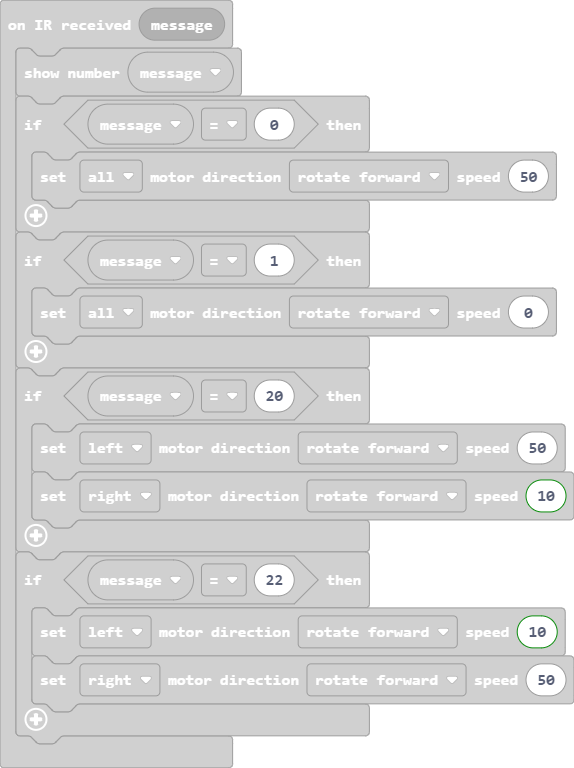
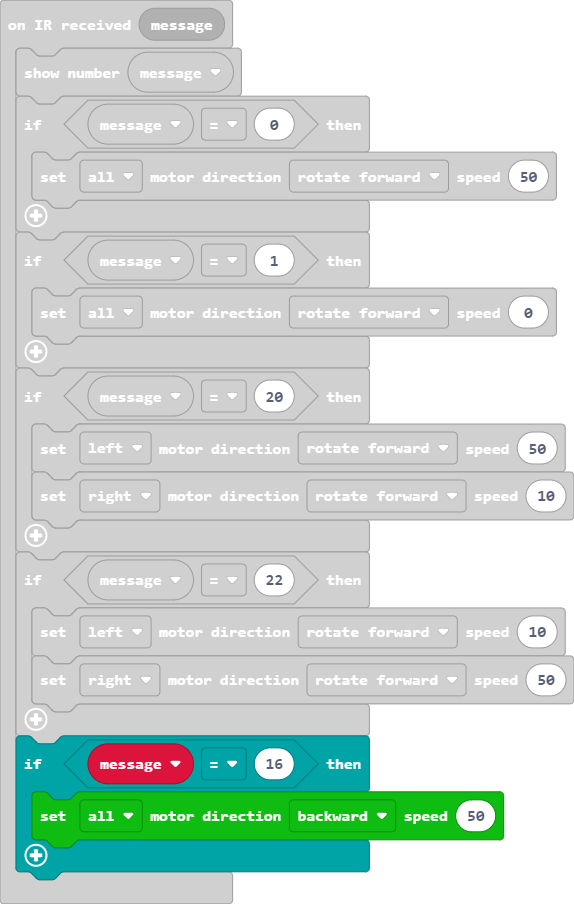
Update main.blocks, main.ts

diff --git a/main.ts b/main.ts
@@ -14,5 +14,8 @@ DFRobotMaqueenPlusV2.onIrDatagram(function (message) {
         DFRobotMaqueenPlusV2.controlMotor(MyEnumMotor.eLeftMotor, MyEnumDir.eForward, 10)
         DFRobotMaqueenPlusV2.controlMotor(MyEnumMotor.eRightMotor, MyEnumDir.eForward, 50)
     }
+    if (message == 16) {
+        DFRobotMaqueenPlusV2.controlMotor(MyEnumMotor.eAllMotor, MyEnumDir.eBackward, 50)
+    }
 })
 DFRobotMaqueenPlusV2.init()
